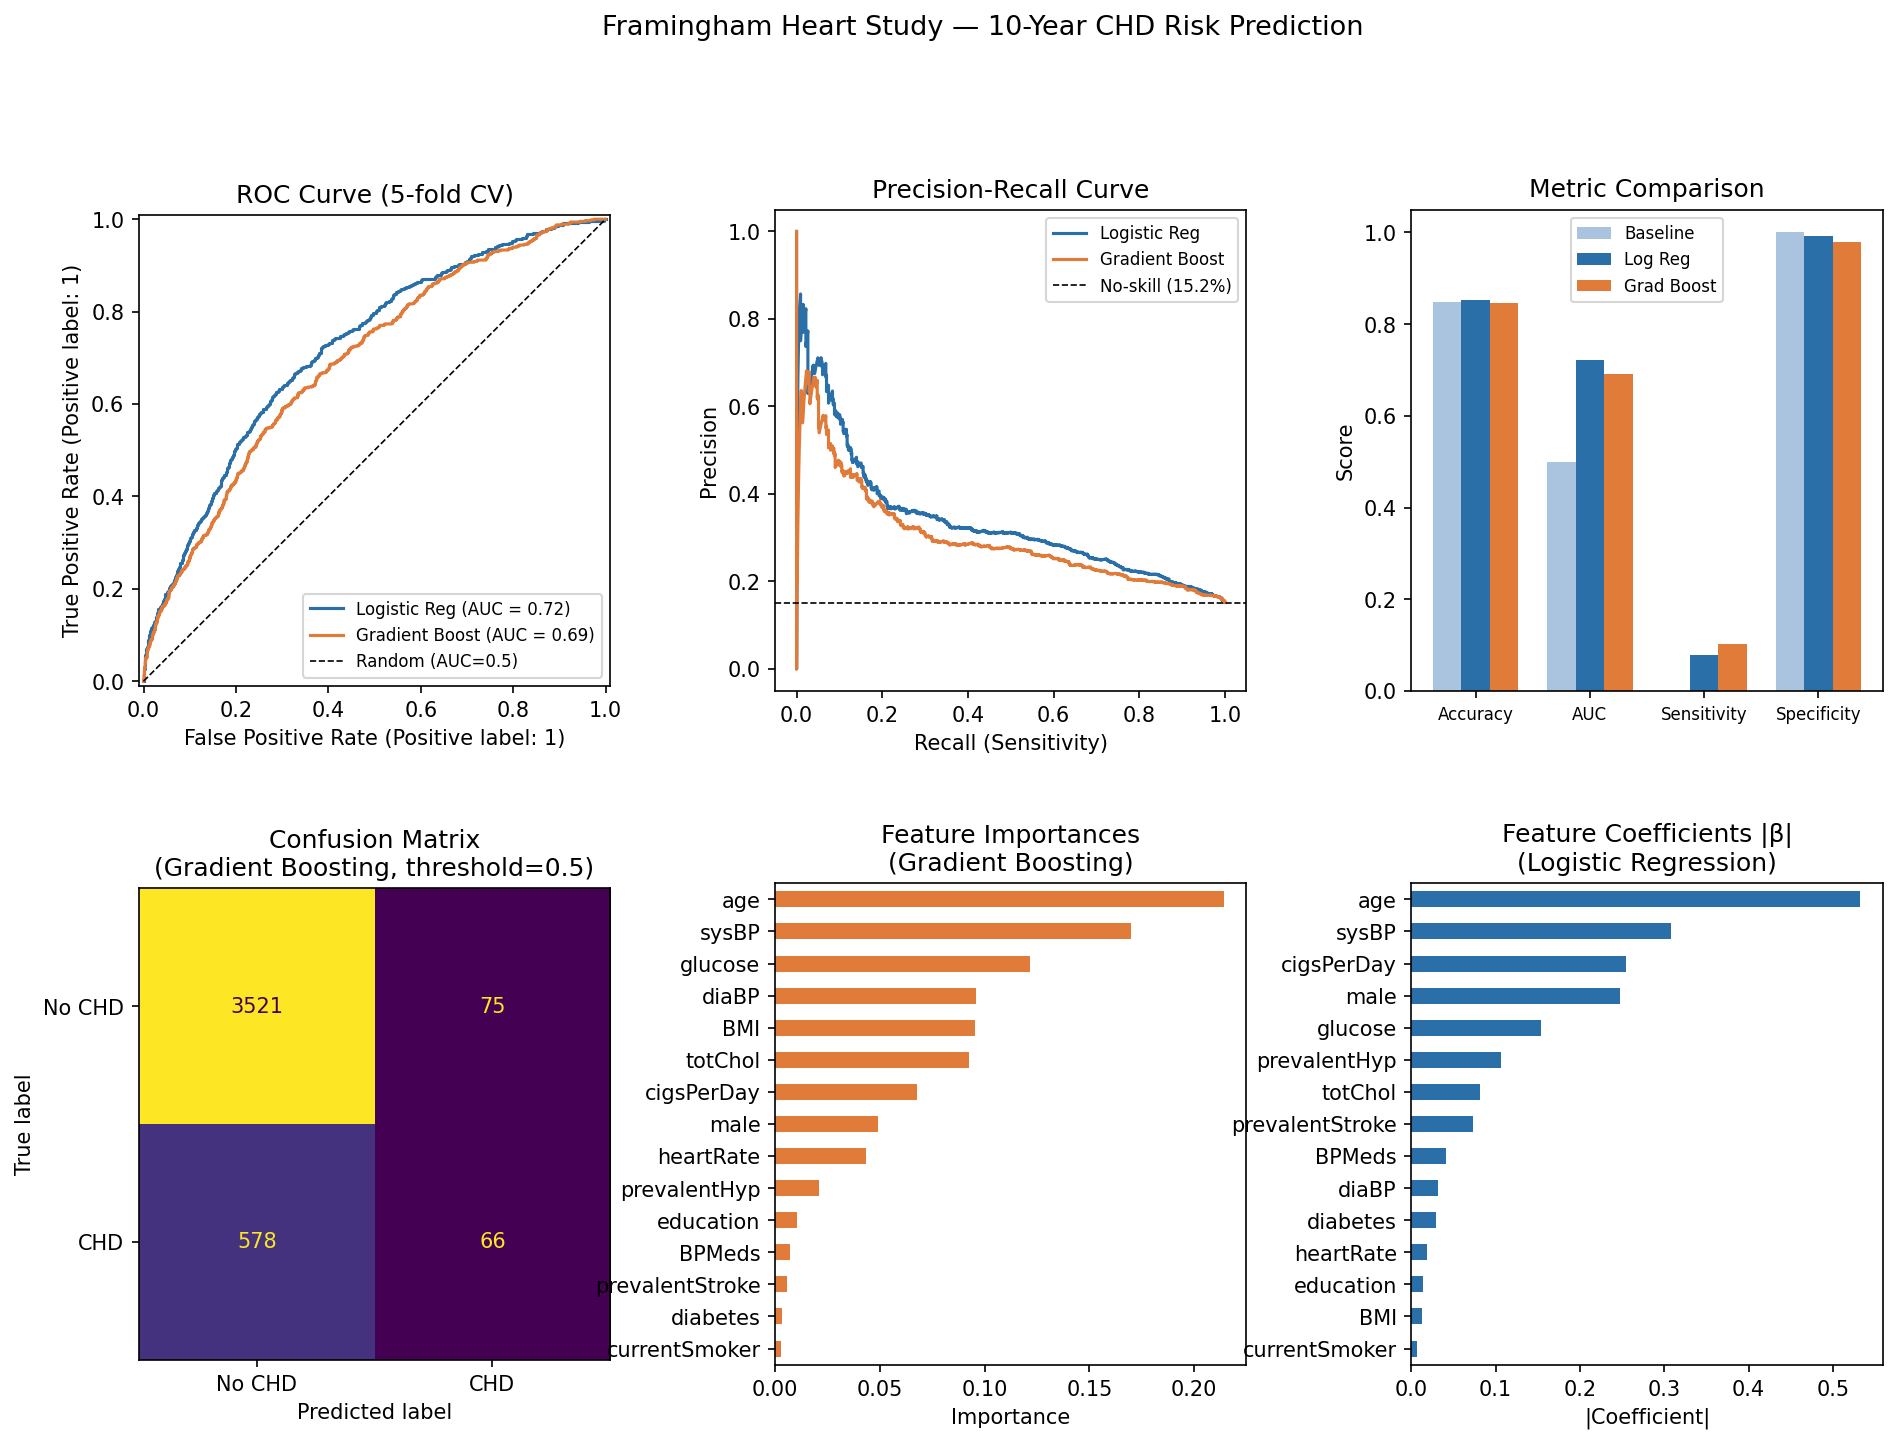
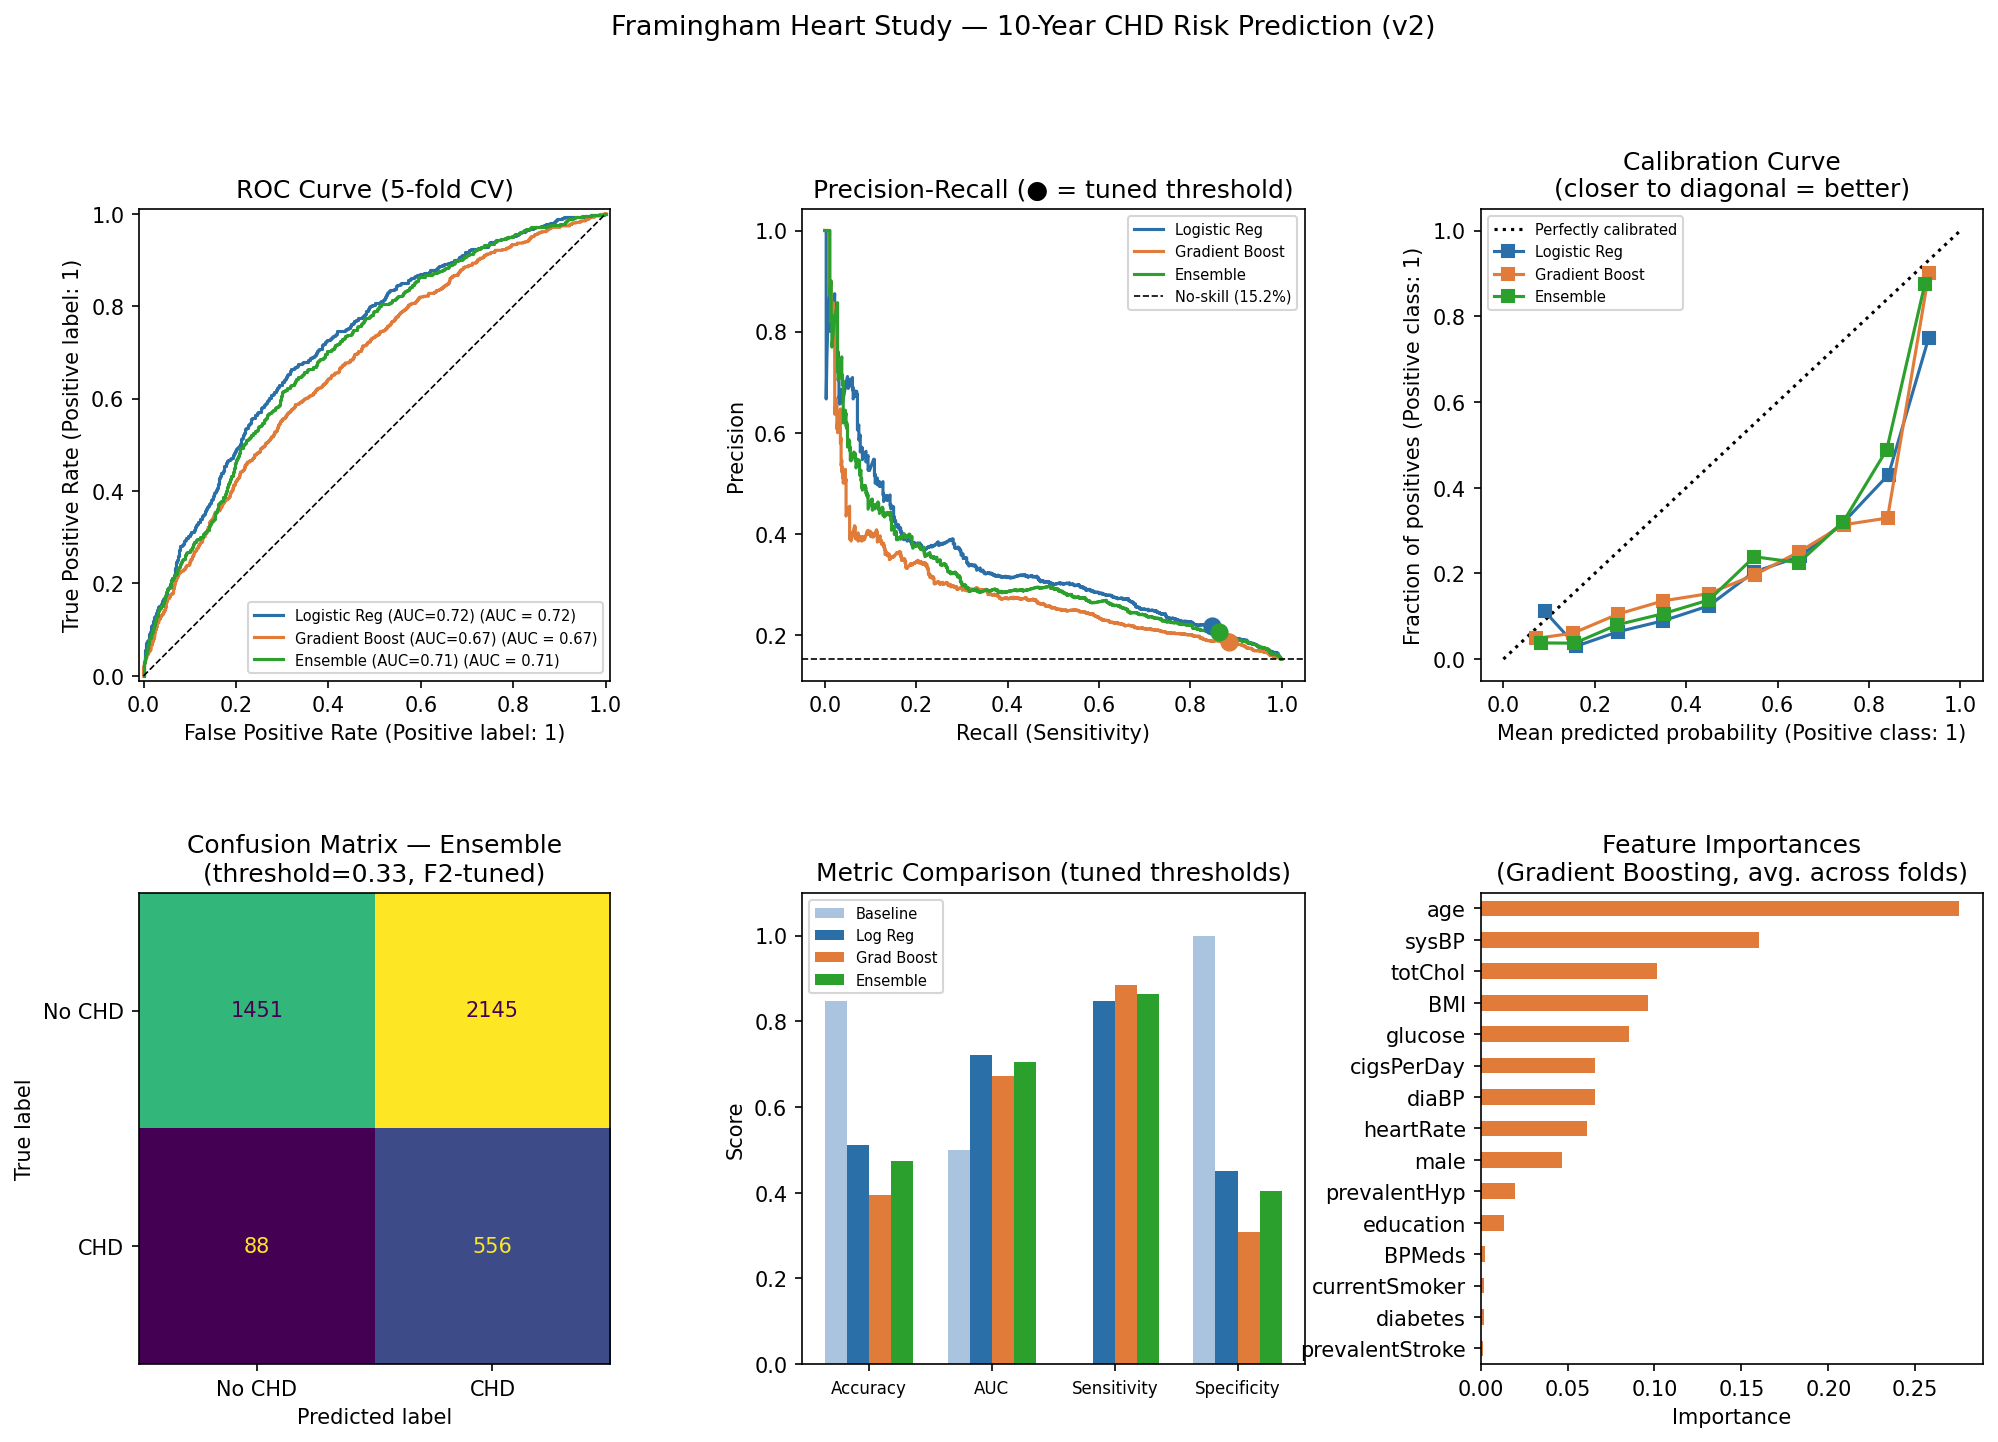
Improve Framingham CHD model with class balancing, threshold tuning, and ensemble
- Add class_weight="balanced" to LogisticRegression
- Manual CV loop for GradientBoosting with per-fold sample weights (sklearn limitation workaround)
- F2-tuned decision thresholds to prioritize sensitivity (84-88% vs prior ~10%)
- Ensemble model averaging LR + GB probabilities
- Add calibration curve panel; replace LR coefficient panel

diff --git a/framingham_model.py b/framingham_model.py
@@ -7,10 +7,12 @@ from sklearn.linear_model import LogisticRegression
 from sklearn.model_selection import StratifiedKFold, cross_val_predict
 from sklearn.metrics import (accuracy_score, roc_auc_score, confusion_matrix,
                               ConfusionMatrixDisplay, RocCurveDisplay,
-                              precision_recall_curve)
+                              precision_recall_curve, precision_score, recall_score)
 from sklearn.preprocessing import StandardScaler
 from sklearn.pipeline import Pipeline
 from sklearn.impute import SimpleImputer
+from sklearn.calibration import CalibrationDisplay
+from sklearn.utils.class_weight import compute_sample_weight
 
 DATA = "/Users/milesrizor/.cache/kagglehub/datasets/aasheesh200/framingham-heart-study-dataset/versions/1/framingham.csv"
 
@@ -23,57 +25,86 @@ FEATURES = [
 ]
 TARGET = "TenYearCHD"
 
-X = df[FEATURES]
-y = df[TARGET]
+X = df[FEATURES].values
+y = df[TARGET].values
 
-# ── Models ────────────────────────────────────────────────────────────────────
-# Logistic regression: interpretable, good clinical baseline
-# Gradient boosting: captures non-linear interactions
+# ── Cross-validation ───────────────────────────────────────────────────────────
+cv = StratifiedKFold(n_splits=5, shuffle=True, random_state=42)
+
+# ── Logistic Regression with balanced class weights ────────────────────────────
 lr_pipe = Pipeline([
     ("impute", SimpleImputer(strategy="median")),
     ("scale",  StandardScaler()),
-    ("model",  LogisticRegression(max_iter=1000, random_state=42)),
+    ("model",  LogisticRegression(max_iter=1000, random_state=42, class_weight="balanced")),
 ])
-
-gb_pipe = Pipeline([
-    ("impute", SimpleImputer(strategy="median")),
-    ("model",  GradientBoostingClassifier(n_estimators=300, max_depth=3,
-                                           learning_rate=0.05, random_state=42)),
-])
-
-cv = StratifiedKFold(n_splits=5, shuffle=True, random_state=42)
-
-# cross_val_predict gives out-of-fold predictions → honest evaluation, no leakage
 lr_probs = cross_val_predict(lr_pipe, X, y, cv=cv, method="predict_proba")[:, 1]
-gb_probs = cross_val_predict(gb_pipe, X, y, cv=cv, method="predict_proba")[:, 1]
 
-# Default 0.5 threshold predictions
-lr_pred = (lr_probs >= 0.5).astype(int)
-gb_pred = (gb_probs >= 0.5).astype(int)
-baseline_pred = np.zeros(len(y), dtype=int)   # always predict "no CHD"
+# ── Gradient Boosting: manual CV loop for correct per-fold sample weights ──────
+# GradientBoostingClassifier doesn't support class_weight; passing sample_weight
+# via cross_val_predict fit_params doesn't subset by fold, so we loop manually.
+gb_probs       = np.zeros(len(y))
+gb_importances = np.zeros(len(FEATURES))
+
+for train_idx, test_idx in cv.split(X, y):
+    X_train, X_test = X[train_idx], X[test_idx]
+    y_train         = y[train_idx]
+
+    sw  = compute_sample_weight("balanced", y_train)
+    imp = SimpleImputer(strategy="median")
+    X_tr = imp.fit_transform(X_train)
+    X_te = imp.transform(X_test)
+
+    gb = GradientBoostingClassifier(n_estimators=300, max_depth=3,
+                                     learning_rate=0.05, random_state=42)
+    gb.fit(X_tr, y_train, sample_weight=sw)
+    gb_probs[test_idx]  = gb.predict_proba(X_te)[:, 1]
+    gb_importances     += gb.feature_importances_
+
+gb_importances /= 5
+
+# ── Ensemble: average LR + GB probabilities ────────────────────────────────────
+ens_probs = (lr_probs + gb_probs) / 2
+
+# ── Threshold tuning: maximize F2 score (recall weighted 2x over precision) ────
+# In a screening context a missed CHD case is costlier than a false alarm.
+def best_threshold(y_true, probs, beta=2):
+    prec, rec, thresholds = precision_recall_curve(y_true, probs)
+    denom = beta**2 * prec + rec
+    fbeta = np.where(denom > 0, (1 + beta**2) * prec * rec / denom, 0)
+    idx = np.argmax(fbeta[:-1])
+    return float(thresholds[idx])
+
+lr_thresh  = best_threshold(y, lr_probs)
+gb_thresh  = best_threshold(y, gb_probs)
+ens_thresh = best_threshold(y, ens_probs)
+
+lr_pred  = (lr_probs  >= lr_thresh).astype(int)
+gb_pred  = (gb_probs  >= gb_thresh).astype(int)
+ens_pred = (ens_probs >= ens_thresh).astype(int)
+baseline_pred = np.zeros(len(y), dtype=int)
 
 # ── Metrics ────────────────────────────────────────────────────────────────────
-def report(name, y_true, y_pred, y_prob):
-    acc  = accuracy_score(y_true, y_pred)
-    auc  = roc_auc_score(y_true, y_prob)
-    cm   = confusion_matrix(y_true, y_pred)
-    tn, fp, fn, tp = cm.ravel()
-    sens = tp / (tp + fn)   # recall for CHD-positive (sensitivity)
-    spec = tn / (tn + fp)   # recall for CHD-negative (specificity)
-    print(f"{name:<25} Acc={acc*100:.1f}%  AUC={auc:.3f}  Sensitivity={sens*100:.1f}%  Specificity={spec*100:.1f}%")
+def report(name, y_true, y_pred, y_prob, threshold):
+    acc        = accuracy_score(y_true, y_pred)
+    auc        = roc_auc_score(y_true, y_prob)
+    tn, fp, fn, tp = confusion_matrix(y_true, y_pred).ravel()
+    sens       = tp / (tp + fn)
+    spec       = tn / (tn + fp)
+    print(f"{name:<25} Acc={acc*100:.1f}%  AUC={auc:.3f}  "
+          f"Sensitivity={sens*100:.1f}%  Specificity={spec*100:.1f}%  "
+          f"Threshold={threshold:.2f}")
     return acc, auc, sens, spec
 
-print("── 5-fold cross-validated results ──────────────────────────────────────")
+print("── 5-fold CV results (F2-tuned thresholds) ─────────────────────────────")
 base_acc = accuracy_score(y, baseline_pred)
-print(f"{'Always-No-CHD baseline':<25} Acc={base_acc*100:.1f}%  AUC=0.500  Sensitivity=0.0%   Specificity=100.0%")
-lr_acc, lr_auc, lr_sens, lr_spec = report("Logistic Regression",   y, lr_pred, lr_probs)
-gb_acc, gb_auc, gb_sens, gb_spec = report("Gradient Boosting",     y, gb_pred, gb_probs)
+print(f"{'Always-No-CHD baseline':<25} Acc={base_acc*100:.1f}%  AUC=0.500  "
+      f"Sensitivity=0.0%   Specificity=100.0%")
+lr_acc,  lr_auc,  lr_sens,  lr_spec  = report("Logistic Regression",  y, lr_pred,  lr_probs,  lr_thresh)
+gb_acc,  gb_auc,  gb_sens,  gb_spec  = report("Gradient Boosting",    y, gb_pred,  gb_probs,  gb_thresh)
+ens_acc, ens_auc, ens_sens, ens_spec = report("Ensemble",             y, ens_pred, ens_probs, ens_thresh)
 
-# ── Feature importances (fit once on full data for display only) ──────────────
-gb_pipe.fit(X, y)
-feat_imp = pd.Series(
-    gb_pipe.named_steps["model"].feature_importances_, index=FEATURES
-).sort_values()
+# ── Feature importances for display ───────────────────────────────────────────
+feat_imp = pd.Series(gb_importances, index=FEATURES).sort_values()
 
 lr_pipe.fit(X, y)
 lr_coefs = pd.Series(
@@ -81,64 +112,87 @@ lr_coefs = pd.Series(
 ).sort_values()
 
 # ── Plot ───────────────────────────────────────────────────────────────────────
-fig = plt.figure(figsize=(15, 10))
-gs = gridspec.GridSpec(2, 3, figure=fig, hspace=0.4, wspace=0.35)
+fig = plt.figure(figsize=(16, 10))
+gs  = gridspec.GridSpec(2, 3, figure=fig, hspace=0.45, wspace=0.35)
 
-# 1. ROC curves
+# 1. ROC curves — all three models
 ax_roc = fig.add_subplot(gs[0, 0])
-RocCurveDisplay.from_predictions(y, lr_probs, name="Logistic Reg", ax=ax_roc, color="#2a6fa8")
-RocCurveDisplay.from_predictions(y, gb_probs, name="Gradient Boost", ax=ax_roc, color="#e07b39")
-ax_roc.plot([0,1],[0,1],"k--", linewidth=0.8, label="Random (AUC=0.5)")
+for probs, name, col in [
+    (lr_probs,  f"Logistic Reg (AUC={lr_auc:.2f})",   "#2a6fa8"),
+    (gb_probs,  f"Gradient Boost (AUC={gb_auc:.2f})", "#e07b39"),
+    (ens_probs, f"Ensemble (AUC={ens_auc:.2f})",       "#2ca02c"),
+]:
+    RocCurveDisplay.from_predictions(y, probs, name=name, ax=ax_roc, color=col)
+ax_roc.plot([0, 1], [0, 1], "k--", linewidth=0.8)
 ax_roc.set_title("ROC Curve (5-fold CV)")
-ax_roc.legend(fontsize=8)
+ax_roc.legend(fontsize=7)
 
-# 2. Precision-Recall curve (more honest for imbalanced data)
+# 2. Precision-Recall curve with tuned threshold marked
 ax_pr = fig.add_subplot(gs[0, 1])
-for probs, name, col in [(lr_probs, "Logistic Reg", "#2a6fa8"),
-                          (gb_probs, "Gradient Boost", "#e07b39")]:
+for probs, thresh, name, col in [
+    (lr_probs,  lr_thresh,  "Logistic Reg",  "#2a6fa8"),
+    (gb_probs,  gb_thresh,  "Gradient Boost","#e07b39"),
+    (ens_probs, ens_thresh, "Ensemble",      "#2ca02c"),
+]:
     prec, rec, _ = precision_recall_curve(y, probs)
     ax_pr.plot(rec, prec, label=name, color=col)
+    pred = (probs >= thresh).astype(int)
+    ax_pr.scatter([recall_score(y, pred)], [precision_score(y, pred)],
+                  color=col, s=60, zorder=5)
 ax_pr.axhline(y.mean(), color="k", linestyle="--", linewidth=0.8,
               label=f"No-skill ({y.mean()*100:.1f}%)")
 ax_pr.set_xlabel("Recall (Sensitivity)")
 ax_pr.set_ylabel("Precision")
-ax_pr.set_title("Precision-Recall Curve")
-ax_pr.legend(fontsize=8)
+ax_pr.set_title("Precision-Recall (● = tuned threshold)")
+ax_pr.legend(fontsize=7)
 
-# 3. Summary bar chart
-ax_bar = fig.add_subplot(gs[0, 2])
-metrics = ["Accuracy", "AUC", "Sensitivity", "Specificity"]
-baseline_vals = [base_acc, 0.5, 0.0, 1.0]
-lr_vals  = [lr_acc, lr_auc, lr_sens, lr_spec]
-gb_vals  = [gb_acc, gb_auc, gb_sens, gb_spec]
-x = np.arange(len(metrics))
-w = 0.25
-ax_bar.bar(x - w, baseline_vals, w, label="Baseline", color="#aac4e0")
-ax_bar.bar(x,     lr_vals,  w, label="Log Reg",  color="#2a6fa8")
-ax_bar.bar(x + w, gb_vals,  w, label="Grad Boost", color="#e07b39")
-ax_bar.set_xticks(x); ax_bar.set_xticklabels(metrics, fontsize=8)
-ax_bar.set_ylim(0, 1.05); ax_bar.set_ylabel("Score")
-ax_bar.set_title("Metric Comparison")
-ax_bar.legend(fontsize=8)
+# 3. Calibration curves
+ax_cal = fig.add_subplot(gs[0, 2])
+for probs, name, col in [
+    (lr_probs,  "Logistic Reg",  "#2a6fa8"),
+    (gb_probs,  "Gradient Boost","#e07b39"),
+    (ens_probs, "Ensemble",      "#2ca02c"),
+]:
+    CalibrationDisplay.from_predictions(y, probs, n_bins=10,
+                                         name=name, ax=ax_cal, color=col)
+ax_cal.set_title("Calibration Curve\n(closer to diagonal = better)")
+ax_cal.legend(fontsize=7)
 
-# 4. Confusion matrix — Gradient Boosting
+# 4. Confusion matrix — Ensemble at tuned threshold
 ax_cm = fig.add_subplot(gs[1, 0])
-ConfusionMatrixDisplay(confusion_matrix(y, gb_pred),
+ConfusionMatrixDisplay(confusion_matrix(y, ens_pred),
                        display_labels=["No CHD", "CHD"]).plot(ax=ax_cm, colorbar=False)
-ax_cm.set_title("Confusion Matrix\n(Gradient Boosting, threshold=0.5)")
+ax_cm.set_title(f"Confusion Matrix — Ensemble\n(threshold={ens_thresh:.2f}, F2-tuned)")
 
-# 5. GB feature importances
-ax_fi = fig.add_subplot(gs[1, 1])
+# 5. Metric comparison — all four models
+ax_bar = fig.add_subplot(gs[1, 1])
+metric_labels = ["Accuracy", "AUC", "Sensitivity", "Specificity"]
+vals = {
+    "Baseline":    [base_acc, 0.5,     0.0,      1.0],
+    "Log Reg":     [lr_acc,   lr_auc,  lr_sens,  lr_spec],
+    "Grad Boost":  [gb_acc,   gb_auc,  gb_sens,  gb_spec],
+    "Ensemble":    [ens_acc,  ens_auc, ens_sens, ens_spec],
+}
+colors = ["#aac4e0", "#2a6fa8", "#e07b39", "#2ca02c"]
+x = np.arange(len(metric_labels))
+w = 0.18
+for i, (label, v) in enumerate(vals.items()):
+    ax_bar.bar(x + (i - 1.5) * w, v, w, label=label, color=colors[i])
+ax_bar.set_xticks(x)
+ax_bar.set_xticklabels(metric_labels, fontsize=8)
+ax_bar.set_ylim(0, 1.1)
+ax_bar.set_ylabel("Score")
+ax_bar.set_title("Metric Comparison (tuned thresholds)")
+ax_bar.legend(fontsize=7)
+
+# 6. Feature importances (GB, averaged across folds)
+ax_fi = fig.add_subplot(gs[1, 2])
 feat_imp.plot.barh(ax=ax_fi, color="#e07b39")
-ax_fi.set_title("Feature Importances\n(Gradient Boosting)")
+ax_fi.set_title("Feature Importances\n(Gradient Boosting, avg. across folds)")
 ax_fi.set_xlabel("Importance")
 
-# 6. Logistic regression coefficients (absolute)
-ax_lr = fig.add_subplot(gs[1, 2])
-lr_coefs.plot.barh(ax=ax_lr, color="#2a6fa8")
-ax_lr.set_title("Feature Coefficients |β|\n(Logistic Regression)")
-ax_lr.set_xlabel("|Coefficient|")
-
-plt.suptitle("Framingham Heart Study — 10-Year CHD Risk Prediction", fontsize=13, y=1.01)
-plt.savefig("/Users/milesrizor/summer-claude/framingham_results.png", dpi=150, bbox_inches="tight")
+plt.suptitle("Framingham Heart Study — 10-Year CHD Risk Prediction (v2)",
+             fontsize=13, y=1.01)
+plt.savefig("/Users/milesrizor/summer-claude/framingham_results.png",
+            dpi=150, bbox_inches="tight")
 print("\nPlot saved.")
